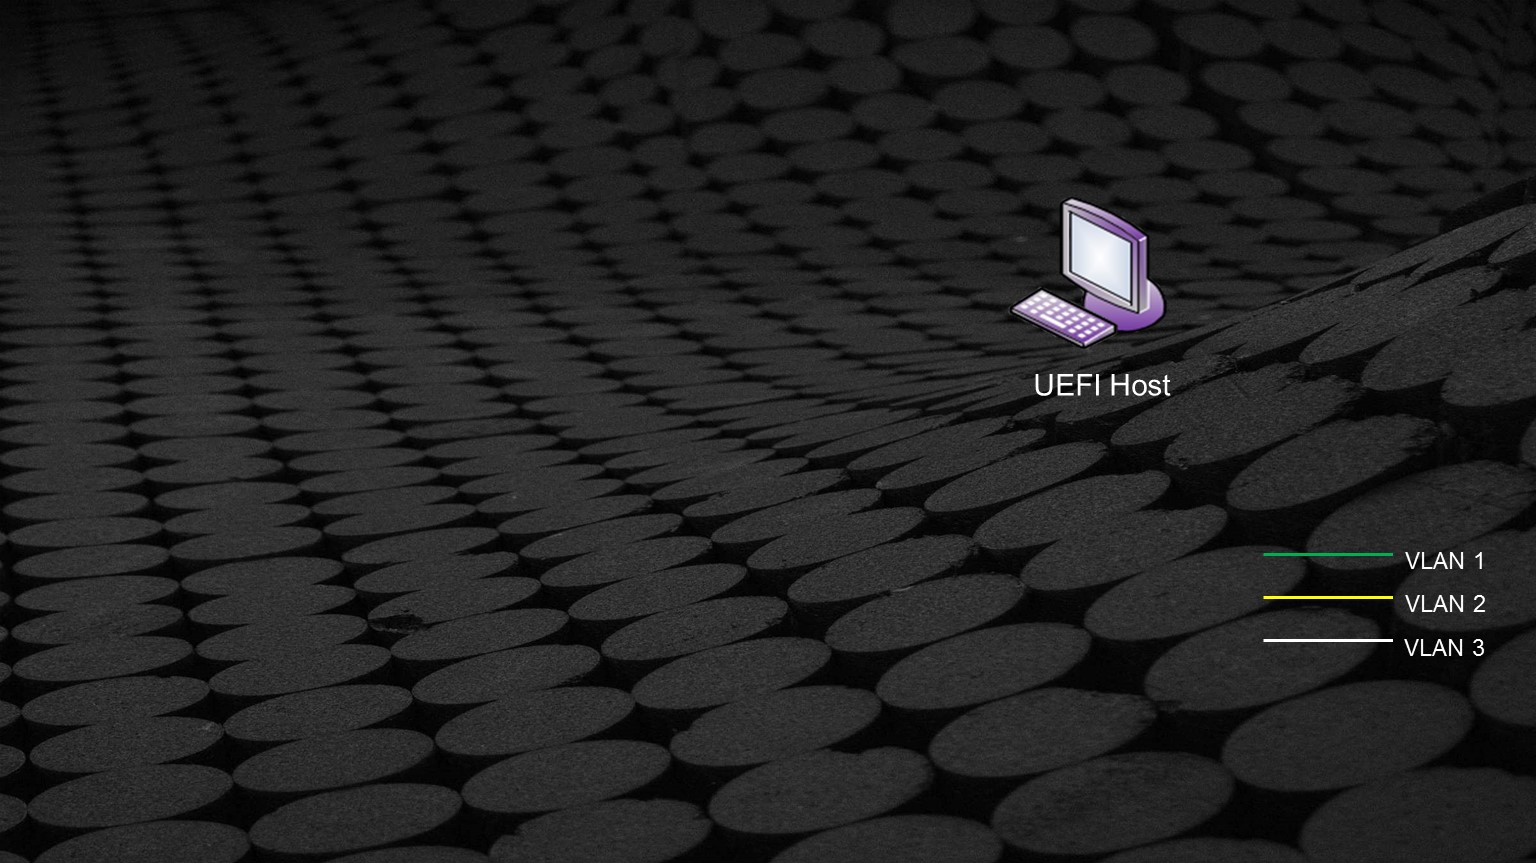
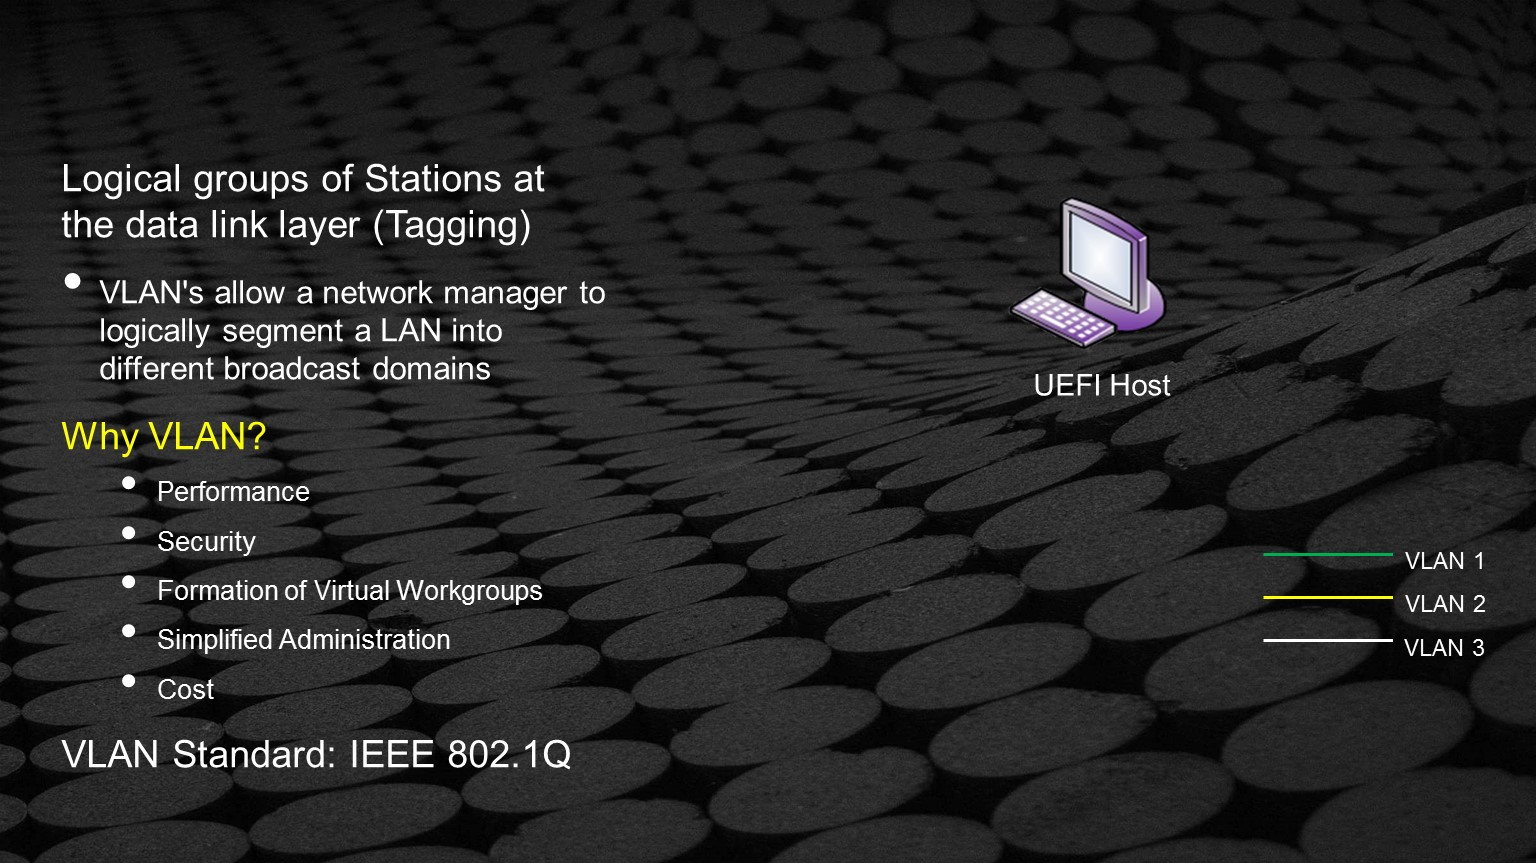
Signed-off-by: Laurie0131 <laurie.jarlstrom@intel.com>

diff --git a/PITCHME.md b/PITCHME.md
@@ -460,7 +460,7 @@ Note:
 <p align="right"><span class="gold" ><b>IP6 Networking - Vendors</b></span></p>
 <br>
 
-<div class="left-1">
+<div class="left">
 <span style="font-size:0.8em" > IPv6 protocols compliance</span>
 <ul>
  <li><span style="font-size:0.7em" >IPv6 ready logo approved <a href="http://www.ipv6ready.org/db/index.php/public/">ipv6ready.org</a> </span></li>
@@ -468,7 +468,7 @@ Note:
  <li><span style="font-size:0.7em" >Vendor Testing:  <a href="https://www-x.antd.nist.gov/usgv6/faq-c.html#vendors">faq-c.html#vendors  </a> </span></li>
 </ul>
 </div>
-<div class="right-1">
+<div class="right">
 <span style="font-size:0.8em" >&nbsp;  </span>
 </div>
 
@@ -481,26 +481,13 @@ Note:
 <!-- .slide: data-transition="none" -->
 @title[Virtual LAN  - VLAN]
 <p align="center"><span class="gold" ><b>Virtual LAN  - VLAN</b></span></p>
-<div class="left-1">
-<ul>
- <li><span style="font-size:0.7em" >Logical groups of Stations at the data link layer (Tagging)</span></li>
-  <ul>
-    <li><span style="font-size:0.6em" >VLAN's allow a network manager to logically segment a LAN into different broadcast domains  : <a href="http://www.cse.wustl.edu/~jain/cis788-97/ftp/virtual_lans/#WhatVLAN">Link</a> </span></li>
-  </ul>
- <li><span style="font-size:0.7em" >Why VLAN?</span></li>
-  <ul>
-     <li><span style="font-size:0.6em" >Performance</span></li>
-     <li><span style="font-size:0.6em" >Security</span></li>
-     <li><span style="font-size:0.6em" >Formation of Virtual Workgroups</span></li>
-     <li><span style="font-size:0.6em" >Simplified Administration</span></li>
-     <li><span style="font-size:0.6em" >Cost</span></li>
-  </ul>
- <li><span style="font-size:0.7em" >VLAN Standard: IEEE 802.1Q </span></li>
-</ul>
-</div>
-<div class="right-1">
-<span style="font-size:0.8em" >&nbsp;  </span>
-</div>
+<br>
+<br>
+<br>
+<br>
+<br>
+<span style="font-size:0.6em" >&nbsp; &nbsp; &nbsp; &nbsp; &nbsp; &nbsp; &nbsp; &nbsp; &nbsp; <a href="http://www.cse.wustl.edu/~jain/cis788-97/ftp/virtual_lans/#WhatVLAN">Link</a> </span>
+
 
 Note:
 
@@ -1345,7 +1332,7 @@ Note:
 <br>
 <span style="font-size:0.9em" >Code Example</span>
 <br>
-<div class="left1">
+<div class="left">
 <pre>
 ```
 typedef struct _EFI_SERVICE_BINDING_PROTOCOL {
@@ -1456,7 +1443,7 @@ Note:
 <span style="font-size:0.9em" >Code Example</span>
 <br>
 
-<div class="left1">
+<div class="left">
 <span style="font-size:0.9em" >Queue DPC</span>
 <pre>
 ```
@@ -1788,15 +1775,24 @@ Note:
 <br>
 <p align="center"<span class="gold"   >IPv4 Driver – in Detail </span></p>
 <br>
+<span style="font-size:0.8em" >Source &nbsp;&nbsp;&nbsp;&nbsp;&nbsp;&nbsp;&nbsp;&nbsp;Description</span>
 ```
- Ip4Common.c     Common helper routines for the whole driver   
+ Ip4Common.c     Common helper routines for the whole driver  
+ 
  Ip4Driver.c     DriverBinding and ServiceBinding routines
+
  Ip4Icmp.c       Internet Control Message Protocol ICMP related routines
+
  Ip4If.c         IP pseudo interface related routines
+
  Ip4Igmp.c       Internet Group Management Protocol IGMP related routines 
+
  Ip4Impl.c       Codes for the APIs defined and exposed by EFI_IP4_PROTOCOL 
+
  Ip4Input.c      IP packets input (receive) procedure
+
  Ip4Output.c     IP packets output (transmit) procedure  
+
  Ip4Route.c      Route table related routines
 
 ```
@@ -1804,24 +1800,6 @@ Note:
 Note:
 
 
-+++
-@title[IPv4 Driver – in Detail table]
-<p align="center"<span class="gold"   >IPv4 Driver – in Detail </span></p>
-
-
-| &nbsp;| Source   | Description |
-| ----  | ---------- | ------------------ |
-| &nbsp;| Ip4Common.c |    Common helper routines for the whole driver   |
-| &nbsp;| Ip4Driver.c |    DriverBinding and ServiceBinding routines |
-| &nbsp;| Ip4Icmp.c   |    Internet Control Message Protocol ICMP related routines |
-| &nbsp;| Ip4If.c     |    IP pseudo interface related routines |
-| &nbsp;| Ip4Igmp.c   |    Internet Group Management Protocol IGMP related routines |
-| &nbsp;| Ip4Impl.c   |    Codes for the APIs defined and exposed by EFI_IP4_PROTOCOL | 
-| &nbsp;| Ip4Input.c  |    IP packets input (receive) procedure |
-| &nbsp;| Ip4Output.c |    IP packets output (transmit) procedure  |
-| &nbsp;| Ip4Route.c  |    Route table related routines |
-
-Note:
  
  
 ---  
@@ -1829,45 +1807,31 @@ Note:
 <br>
 <p align="center"<span class="gold"   >IPv6 Driver – in Detail </span></p>
 <br>
+<span style="font-size:0.8em" >Source &nbsp;&nbsp;&nbsp;&nbsp;&nbsp;&nbsp;&nbsp;&nbsp;Description</span>
 ```
  Ip6Common.c     Common helper routines for the whole driver   
+
  Ip6Driver.c     DriverBinding and ServiceBinding routines
+
  Ip6Icmp.c       Internet Control Message Protocol ICMP related routines
+
  Ip6If.c         IP pseudo interface related routines
-
+//   Different from IPv4   
  Ip6Nd.c         Neighbor Discovery ND related routines
- Ip6Mld.c        Multicast Listener Discovery MLD related routines
 
+ Ip6Mld.c        Multicast Listener Discovery MLD related routines
+//
  Ip6Impl.c       Codes for the APIs defined and exposed by EFI_Ip6_PROTOCOL 
+
  Ip6Input.c      IP packets input (receive) procedure
+
  Ip6Output.c     IP packets output (transmit) procedure  
+
  Ip6Route.c      Route table related routines
 
 ```
 Note:
 
-+++
-@title[IPv6 Driver – in Detail -table]
-<br>
-<p align="center"<span class="gold"   >IPv6 Driver – in Detail </span></p>
-
-| &nbsp;| Source   | Description |
-| ---- | ---------- | ------------------ |
-| &nbsp;| Ip6Common.c |    Common helper routines for the whole driver   |
-| &nbsp;| Ip6Driver.c |    DriverBinding and ServiceBinding routines |
-| &nbsp;| Ip6Icmp.c   |    Internet Control Message Protocol ICMP related routines |
-| &nbsp;| Ip6If.c     |    IP pseudo interface related routines |
-| &nbsp;| &nbsp;  |  &nbsp; |
-| &nbsp;| Ip6Nd.c     |    Neighbor Discovery ND related routines |
-| &nbsp;| Ip6Mld.c    |    Multicast Listener Discovery MLD related routines |
-| &nbsp;|&nbsp;   | &nbsp;  |
-| &nbsp;| Ip6Impl.c   |    Codes for the APIs defined and exposed by EFI_Ip6_PROTOCOL |
-| &nbsp;| Ip6Input.c  |    IP packets input (receive) procedure |
-| &nbsp;| Ip6Output.c |    IP packets output (transmit) procedure  |
-| &nbsp;| Ip6Route.c  |    Route table related routines |
-
-Note:
- 
 
 ---?image=/assets/images/slides/Slide146.JPG
 <!-- .slide: data-transition="none" -->
@@ -1949,7 +1913,6 @@ Note:
 @title[IP4/6 Input Workflow DETAILs]
 <br>
 <p align="right"><span class="gold" ><b>IP4/6 Input Workflow - Details</b></span></p>
-<br>
 <div class="left">
 <pre>
 ```
@@ -2040,7 +2003,6 @@ Note:
 <!-- .slide: data-background-transition="none" -->
 <!-- .slide: data-transition="none" -->
 @title[IP4/6 Output Workflow DETAILs]
-<br>
 <p align="right"><span class="gold" ><b>IP4/6 Output Workflow - Details</b></span></p>
 <br>
 <div class="left">
@@ -2050,10 +2012,12 @@ EfiIp4/6Transmit () – EFI_IP4/6_PROTOCOL.Transmit ()
   - The initial source of most IP4/6 output packets.
   - Sanity check.
   - Append IP4/6 head to the buffer passed in.
-  - Record the Token and the corresponding Wrap (IP4/6_TXTOKEN_WRAP)  to the TxTokens NET_MAP.
+  - Record the Token and the corresponding Wrap 
+    (IP4/6_TXTOKEN_WRAP)  to the TxTokens NET_MAP.
   - Call Ip4/6Output to output this packet.
 Ip4/6Output ()
-  - Decide the IP address of the next hop for this packet, aka, route selection.
+  - Decide the IP address of the next hop for this 
+    packet, aka, route selection.
   - Fragment it if needed.
   - Call Ip4/6SendFrame () to send this packet.
 
@@ -2064,14 +2028,18 @@ Ip4/6Output ()
 <pre>
 ```
 Ip4/6SendFrame ()
-  - Do layer-3 to layer-2 address translation, in most cases need the help from the Arp instance belonging to the IP4 
+  - Do layer-3 to layer-2 address translation, in most cases 
+    need the help from the Arp instance belonging to the IP4 
     interface selected.
-     - Immediately send out the packet by Mnp->Transmit if the translation can be done directly from the arp cache.  
-     - Or create an ArpQue which assembles all the IP4 packets with the same next hop. Once the translation is done, 
-	   all these packets are transmitted out in the event notify function.
-Upon completion of the transmit, either successful or with some failure, the status will be returned to the consumer 
-provided EFI_IP4/6_COMPLETION_TOKEN.Status with the signaling of the event, and at this time, the control of the 
-token is returned to the consumer.
+     - Immediately send out the packet by Mnp->Transmit if the 
+	   translation can be done directly from the arp cache.  
+     - Or create an ArpQue which assembles all the IP4 packets with 
+	   the same next hop. Once the translation is done, all these 
+	   packets are transmitted out in the event notify function.
+Upon completion of the transmit, either successful or with some 
+failure, the status will be returned to the consumer provided 
+EFI_IP4/6_COMPLETION_TOKEN.Status with the signaling of the event, 
+and at this time, the control of the token is returned to the consumer.
 ```
 </pre>
 </div>
@@ -2090,7 +2058,7 @@ Note:
 @title[UEFI HTTP(s) Boot Overview]
 <br>
 <p align="right"><span class="gold" ><b>UEFI HTTP(s) Boot Overview</b></span></p>
-<span style="font-size:0.9em"> HTTP protocol for network booting </span>
+<span style="font-size:0.9em"> <b>HTTP protocol for network booting</b> </span>
 <ul>
   <li><span style="font-size:0.8em">HTTP can handle much larger files than TFTP, and scale to much larger distances. You can easily download multi-megabyte files, such as a Linux kernel and a root file system, and you can download from servers that are not on your local area network</span></li>
   <li><span style="font-size:0.8em">Booting from HTTP is as simple as replacing the DHCP filename field with an http:// URL </span></li>
@@ -2169,7 +2137,7 @@ Note:
 @title[HTTP(s) Boot UEFI  Network Stack -protocols]
 <p align="center"><span class="gold" ><b>HTTP(s) Boot UEFI Network Stack</b></span></p>
 <span style="font-size:0.9em">- UEFI & EDK II Protocols</span>
-<div class="left-1">
+<div class="left">
 <pre>
 ```
 - HTTP support
@@ -2190,7 +2158,7 @@ Note:
 ```
 </pre>
 </div>
-<div class="right-1">
+<div class="right">
 <span style="font-size:0.9em">&nbsp;</span>
 </div>
 
@@ -2277,7 +2245,7 @@ Note:
 ---?image=/assets/images/slides/Slide169.JPG
 @title[HTTP(s) Boot Discovery - Architectural Types ]
 <p align="right"><span class="gold" ><b>HTTP(s) Boot Discovery - Architectural Types</b></span></p>
-
+<br>
 <div class="left1">
 <ul>
   <li><span style="font-size:0.8em"> DHCP - <a href="http://www.iana.org/assignments/dhcpv6-parameters/dhcpv6-parameters.xml"> dhcpv6-parameters.xml</a></span> </li>
@@ -2395,8 +2363,8 @@ Note:
 
 ---
 @title[Getting started Guides]
-<p align="center"><span class="gold" ><b>Getting Started Guides</b></span></p>
 <br>
+<p align="center"><span class="gold" ><b>Getting Started Guides</b></span></p>
 <span style="font-size:01.1em">HTTP: </span><br>
 <span style="font-size:0.8em"><i>Wiki Page</i> <a href="https://github.com/tianocore/tianocore.github.io/wiki/HTTP-Boot">https://github.com/tianocore/tianocore.github.io/wiki/HTTP-Boot </a></span><br>
 <span style="font-size:0.8em">PDF<a href="https://github.com/tianocore-docs/Docs/raw/master/White_Papers/EDKIIHttpBootGettingStartedGuide_0_8.pdf"> EDKIIHttpBootGettingStartedGuide_0_8.pdf</a></span>
